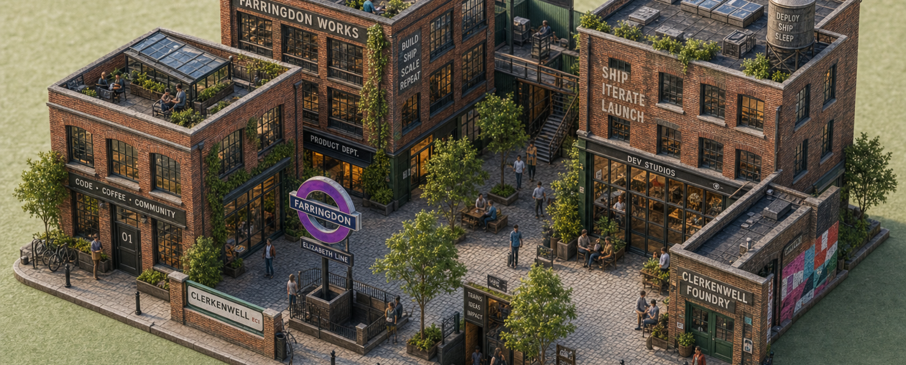
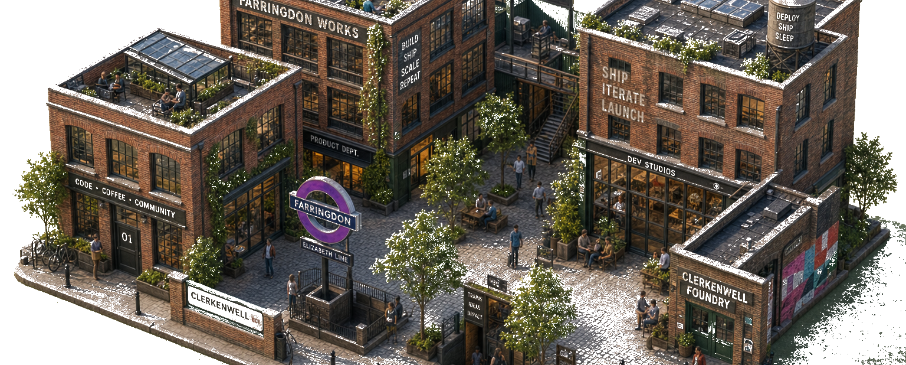
Fix hub sprites compositing as stacked opaque rectangles.
Strip grass backgrounds from illustrated PNGs, show full diorama sprites only when zoomed into a hub, and use plaza markers at city-wide zoom so clusters blend into the map.

diff --git a/scripts/process-hub-sprite.ts b/scripts/process-hub-sprite.ts
@@ -1,56 +1,86 @@
 /**
- * Crop and resize a source illustration to hub sprite dimensions.
+ * Crop, strip grass background, and resize hub illustrations to sprite dimensions.
  * Usage: tsx scripts/process-hub-sprite.ts <hubId> <source.png>
  */
 
+import { createCanvas, loadImage } from '@napi-rs/canvas';
 import fs from 'node:fs';
 import path from 'node:path';
-import { execSync } from 'node:child_process';
 import { hubSpriteCanvasSize } from '../lib/game/hub-sprite-bake';
 import { HUB_SPRITE_META } from '../lib/game/sprite-loader';
 import type { HubId } from '../lib/game/types';
 
-const hubId = process.argv[2] as HubId;
-const source = process.argv[3];
+function stripGrassBackground(ctx: CanvasRenderingContext2D, w: number, h: number) {
+  const imageData = ctx.getImageData(0, 0, w, h);
+  const d = imageData.data;
+  for (let i = 0; i < d.length; i += 4) {
+    const r = d[i];
+    const g = d[i + 1];
+    const b = d[i + 2];
+    // Grass / turf greens from generated art
+    const isGrass = g > 70 && g > r * 1.12 && g > b * 1.05;
+    // Pale green-beige ground plane
+    const isGround =
+      g > 120 &&
+      r > 100 &&
+      b > 70 &&
+      g >= r - 15 &&
+      g >= b &&
+      Math.abs(g - r) < 45;
+    if (isGrass || isGround) {
+      d[i + 3] = 0;
+    }
+  }
+  ctx.putImageData(imageData, 0, 0);
+}
 
-if (!hubId || !source || !HUB_SPRITE_META[hubId]) {
-  console.error('Usage: tsx scripts/process-hub-sprite.ts <hubId> <source.png>');
+async function main() {
+  const hubId = process.argv[2] as HubId;
+  const source = process.argv[3];
+
+  if (!hubId || !source || !HUB_SPRITE_META[hubId]) {
+    console.error('Usage: tsx scripts/process-hub-sprite.ts <hubId> <source.png>');
+    process.exit(1);
+  }
+
+  const meta = HUB_SPRITE_META[hubId];
+  const { width, height } = hubSpriteCanvasSize(hubId);
+  const aspect = (meta.drawW * 2) / meta.drawH;
+
+  const img = await loadImage(source);
+  const sw = img.width;
+  const sh = img.height;
+
+  let cropW = sw;
+  let cropH = Math.round(sw / aspect);
+  if (cropH > sh) {
+    cropH = sh;
+    cropW = Math.round(sh * aspect);
+  }
+  const sx = Math.round((sw - cropW) / 2);
+  const sy = Math.round((sh - cropH) / 2);
+
+  const cropCanvas = createCanvas(cropW, cropH);
+  const cropCtx = cropCanvas.getContext('2d');
+  cropCtx.drawImage(img, sx, sy, cropW, cropH, 0, 0, cropW, cropH);
+  stripGrassBackground(cropCtx, cropW, cropH);
+
+  const outCanvas = createCanvas(width, height);
+  const outCtx = outCanvas.getContext('2d');
+  outCtx.drawImage(cropCanvas, 0, 0, width, height);
+
+  const outDir = path.join(process.cwd(), 'public/map/hubs');
+  const docsDir = path.join(process.cwd(), 'docs/art/sources');
+  fs.mkdirSync(outDir, { recursive: true });
+  fs.mkdirSync(docsDir, { recursive: true });
+  fs.copyFileSync(source, path.join(docsDir, `${hubId}-source.png`));
+
+  const outPath = path.join(outDir, `${hubId}.png`);
+  fs.writeFileSync(outPath, await outCanvas.encode('png'));
+  console.log(`✓ ${hubId}.png (${width}×${height}, transparent)`);
+}
+
+main().catch((err) => {
+  console.error(err);
   process.exit(1);
-}
-
-const meta = HUB_SPRITE_META[hubId];
-const { width, height } = hubSpriteCanvasSize(hubId);
-const aspect = (meta.drawW * 2) / meta.drawH;
-
-const dim = execSync(`sips -g pixelWidth -g pixelHeight "${source}"`, { encoding: 'utf8' });
-const sw = Number(dim.match(/pixelWidth: (\d+)/)?.[1] ?? 1536);
-const sh = Number(dim.match(/pixelHeight: (\d+)/)?.[1] ?? 1024);
-
-let cropW = sw;
-let cropH = Math.round(sw / aspect);
-if (cropH > sh) {
-  cropH = sh;
-  cropW = Math.round(sh * aspect);
-}
-
-const outDir = path.join(process.cwd(), 'public/map/hubs');
-const docsDir = path.join(process.cwd(), 'docs/art/sources');
-fs.mkdirSync(outDir, { recursive: true });
-fs.mkdirSync(docsDir, { recursive: true });
-
-const archived = path.join(docsDir, `${hubId}-source.png`);
-fs.copyFileSync(source, archived);
-
-const cropPath = path.join(outDir, `.${hubId}-crop.png`);
-const outPath = path.join(outDir, `${hubId}.png`);
-const x = Math.round((sw - cropW) / 2);
-const y = Math.round((sh - cropH) / 2);
-
-execSync(
-  `sips -c ${cropH} ${cropW} "${source}" --cropOffset ${y} ${x} --out "${cropPath}"`,
-  { stdio: 'inherit' },
-);
-execSync(`sips -z ${height} ${width} "${cropPath}" --out "${outPath}"`, { stdio: 'inherit' });
-fs.unlinkSync(cropPath);
-
-console.log(`✓ ${hubId}.png (${width}×${height})`);
+});

diff --git a/lib/game/iso-render.ts b/lib/game/iso-render.ts
@@ -39,7 +39,7 @@ import {
   HUB_THEMES,
   truncateLabel,
 } from './iso-draw';
-import { getCachedSprite, HUB_SPRITE_META, isIllustratedHub, preloadHubSprites } from './sprite-loader';
+import { getCachedSprite, HUB_SPRITE_META, ILLUSTRATED_SPRITE_MIN_ZOOM, isIllustratedHub, preloadHubSprites } from './sprite-loader';
 
 const EVENT_TENTS: Record<HubId, { wx: number; wy: number }> = {
   shoreditch: { wx: 0.9, wy: 1.35 },
@@ -414,11 +414,19 @@ export class IsoMapRenderer implements MapRendererApi {
 
     const sprite = getCachedSprite(HUB_SPRITE_META[hubId].assetPath);
     const illustrated = Boolean(sprite && isIllustratedHub(hubId));
-    if (sprite) {
+    const fitZ = this.computeFitZoom();
+    const spriteMinZoom = Math.max(ILLUSTRATED_SPRITE_MIN_ZOOM, fitZ * 1.05);
+    const showSprite = illustrated && sprite && z >= spriteMinZoom;
+
+    if (showSprite) {
       const meta = HUB_SPRITE_META[hubId];
       const sw = meta.drawW * TILE_W * z;
       const sh = meta.drawH * TILE_H * z;
+      const fade = Math.min(1, (z - spriteMinZoom) / 0.15);
+      ctx.save();
+      ctx.globalAlpha = fade;
       ctx.drawImage(sprite, origin.x - sw * meta.anchorX, origin.y - sh * meta.anchorY, sw, sh);
+      ctx.restore();
     } else {
       drawHubPlaza(ctx, origin.x, origin.y, rx, ry, theme, z);
       drawHubSign(ctx, hubId, origin.x, origin.y - ry - 8, z);
@@ -459,7 +467,7 @@ export class IsoMapRenderer implements MapRendererApi {
           rivalHoverId !== null &&
           rivals.some((r, i) => rivalSlots[i % rivalSlots.length] === b && r.id === rivalHoverId));
 
-      if (sprite && kind === 'neutral') continue;
+      if (illustrated && !showSprite) continue;
       if (illustrated && kind === 'neutral') continue;
 
       const base = isoToScreen(this.buildingIso(hubId, b), this.cam, w, h);

diff --git a/scripts/process-all-hub-sprites.ts b/scripts/process-all-hub-sprites.ts
@@ -1,0 +1,24 @@
+/**
+ * Reprocess all hub sprites from docs/art/sources/.
+ * Run: pnpm process:hub-sprites
+ */
+
+import { execSync } from 'node:child_process';
+import fs from 'node:fs';
+import path from 'node:path';
+import { HUB_IDS } from '../lib/game/hub-sprite-bake';
+
+const sourcesDir = path.join(process.cwd(), 'docs/art/sources');
+
+for (const hubId of HUB_IDS) {
+  const source = path.join(sourcesDir, `${hubId}-source.png`);
+  if (!fs.existsSync(source)) {
+    console.warn(`  ⊘ ${hubId} — no source at ${source}`);
+    continue;
+  }
+  execSync(`pnpm exec tsx scripts/process-hub-sprite.ts ${hubId} "${source}"`, {
+    stdio: 'inherit',
+  });
+}
+
+console.log('\nDone.');

diff --git a/lib/game/sprite-loader.ts b/lib/game/sprite-loader.ts
@@ -17,6 +17,9 @@ export interface HubSpriteMeta {
   drawH: number;
 }
 
+/** Zoom at or above this level shows full illustrated hub sprites. Below = plaza markers only. */
+export const ILLUSTRATED_SPRITE_MIN_ZOOM = 0.52;
+
 /** Hubs with hand-illustrated cluster PNGs — skip procedural building draws. */
 export const ILLUSTRATED_HUBS: ReadonlySet<HubId> = new Set([
   'shoreditch',
